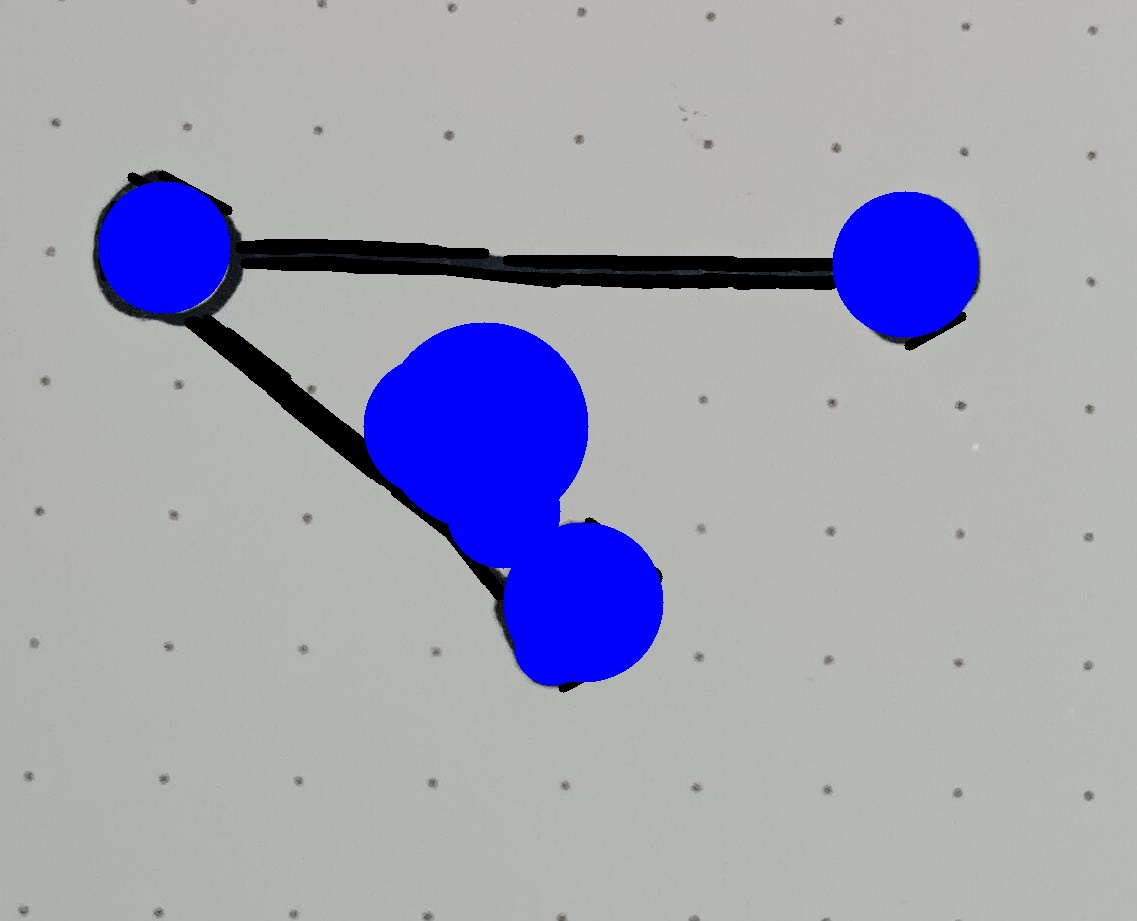
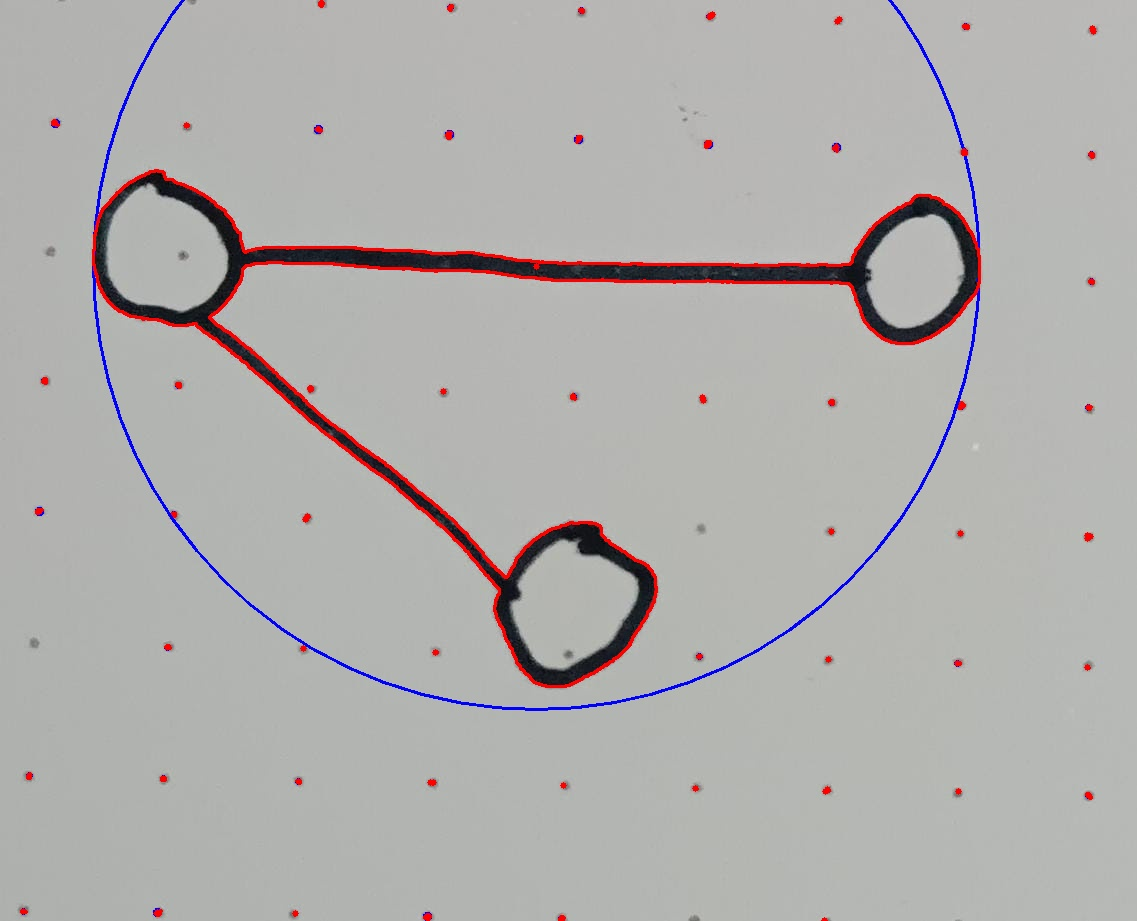
New method for the preprocessing

diff --git a/src/interpretation.py b/src/interpretation.py
@@ -1,52 +1,58 @@
 import cv2
+import os
 import numpy as np
 import networkx as nx
-import matplotlib.pyplot as plt
 
-# Función para interpretar los resultados del preprocesamiento y extraer información útil del grafo
-def interpretar_grafo(imagen_preprocesada):
-    # Convertir la imagen preprocesada a escala de grises
-    imagen_gris = cv2.cvtColor(imagen_preprocesada, cv2.COLOR_BGR2GRAY)
+def interpretar_grafo(imagen):
+    # Convertir la imagen a escala de grises
+    gray = cv2.cvtColor(imagen, cv2.COLOR_BGR2GRAY)
 
-    # Detección de nodos (círculos azules)
-    nodos = cv2.HoughCircles(imagen_gris, cv2.HOUGH_GRADIENT, dp=1, minDist=50, param1=50, param2=30, minRadius=5, maxRadius=30)
+    # Detección de círculos y líneas
+    circles = cv2.HoughCircles(gray, cv2.HOUGH_GRADIENT, dp=1, minDist=50, param1=200, param2=30, minRadius=15, maxRadius=45)
+    edges = cv2.Canny(gray, 50, 150, apertureSize=3)
 
-    # Detección de aristas (líneas rojas)
-    bordes_rojos = cv2.inRange(imagen_preprocesada, np.array([0, 0, 150]), np.array([100, 100, 255]))
-    contornos, _ = cv2.findContours(bordes_rojos, cv2.RETR_EXTERNAL, cv2.CHAIN_APPROX_SIMPLE)
+    # Detección de líneas utilizando la transformada de Hough probabilística
+    lines = cv2.HoughLines(edges, rho=1, theta=np.pi/180, threshold=100)
 
     # Crear un grafo vacío
-    grafo = nx.Graph()
+    G = nx.Graph()
 
-    # Agregar nodos al grafo y asignar etiquetas y posiciones
-    if nodos is not None:
-        nodos = np.round(nodos[0, :]).astype("int")
-        for i, (x, y, _) in enumerate(nodos):
-            etiqueta_nodo = f"Nodo {i+1}"
-            grafo.add_node(etiqueta_nodo, pos=(x, y))
+    # Agregar nodos al grafo
+    if circles is not None:
+        circles = np.uint16(np.around(circles))
+        for i in circles[0, :]:
+            G.add_node((i[0], i[1]))
 
     # Agregar aristas al grafo
-    for contorno in contornos:
-        if len(contorno) > 1:
-            inicio = tuple(contorno[0][0])
-            fin = tuple(contorno[-1][0])
-            grafo.add_edge(inicio, fin)
+    if lines is not None:
+        for line in lines:
+            rho, theta = line[0]
+            a = np.cos(theta)
+            b = np.sin(theta)
+            x0 = a * rho
+            y0 = b * rho
+            x1 = int(x0 + 1000 * (-b))
+            y1 = int(y0 + 1000 * (a))
+            x2 = int(x0 - 1000 * (-b))
+            y2 = int(y0 - 1000 * (a))
+            node1 = (x1, y1)
+            node2 = (x2, y2)
+            if node1 in G.nodes and node2 in G.nodes:
+                G.add_edge(node1, node2)
 
-    return grafo
-
+    return G
 
 # Ejemplo de uso
 if __name__ == "__main__":
-    imagen_preprocesada = cv2.imread("/home/joki/Documents/code/GraphsTheory/preProcessedImages/preprocesada_ej2.jpeg")  # Reemplaza esto con la imagen preprocesada
-    grafo = interpretar_grafo(imagen_preprocesada)
-
-    # Imprimir información del grafo
-    print("Número de nodos:", grafo.number_of_nodes())
-    print("Número de aristas:", grafo.number_of_edges())
-    print("Nodos:", grafo.nodes())
-    print("Aristas:", grafo.edges())
+    imagen_path = "./preProcessedImages/preprocesada_g1.png"  # Reemplaza esto con la ruta de tu imagen procesada
+    imagen_procesada = cv2.imread(imagen_path)
+    grafo = interpretar_grafo(imagen_procesada)
 
     # Visualizar el grafo
-    posiciones_nodos = nx.get_node_attributes(grafo, 'pos')
-    nx.draw(grafo, posiciones_nodos, with_labels=True, node_color='skyblue', node_size=500)
+    print("Nodos del grafo:", grafo.nodes)
+    print("Aristas del grafo:", grafo.edges)
+
+    # También puedes visualizar el grafo utilizando NetworkX
+    import matplotlib.pyplot as plt
+    nx.draw(grafo, with_labels=True)
     plt.show()

diff --git a/src/preprocesing.py b/src/preprocesing.py
@@ -5,39 +5,27 @@ def preprocesar_imagen(image_path):
     # Cargar la imagen
     imagen = cv2.imread(image_path)
 
-    # Convertir la imagen a escala de grises
-    imagen_gris = cv2.cvtColor(imagen, cv2.COLOR_BGR2GRAY)
+    # Convertir a escala de grises
+    gray = cv2.cvtColor(imagen, cv2.COLOR_BGR2GRAY)
 
-    # Aplicar umbralización adaptativa para segmentar la imagen
-    _, imagen_umbralizada = cv2.threshold(imagen_gris, 100, 255, cv2.THRESH_BINARY)
+    # Detección de círculos
+    circles = cv2.HoughCircles(gray, cv2.HOUGH_GRADIENT, dp=1, minDist=50, param1=200, param2=30, minRadius=0, maxRadius=0)
 
-    # Aplicar detección de bordes utilizando el algoritmo Canny
-    imagen_bordes = cv2.Canny(imagen_umbralizada, 50, 150)
+    # Dibujar círculos detectados
+    if circles is not None:
+        circles = circles.astype(int)
+        for i in circles[0, :]:
+            cv2.circle(imagen, (i[0], i[1]), i[2], (0, 255, 0), 2)
 
-    # Dilatación de la imagen de bordes
-    kernel = cv2.getStructuringElement(cv2.MORPH_RECT, (5, 5))
-    imagen_bordes_dilatada = cv2.dilate(imagen_bordes, kernel, iterations=1)
+    # Detección de líneas
+    edges = cv2.Canny(gray, 50, 150, apertureSize=3)
+    lines = cv2.HoughLinesP(edges, rho=1, theta=1 * (3.14 / 180), threshold=100, minLineLength=100, maxLineGap=10)
 
-    # Detección de líneas utilizando la transformada de Hough
-    lineas = cv2.HoughLinesP(imagen_bordes_dilatada, 1, 3.14/180, threshold=50, minLineLength=50, maxLineGap=5)  # Adjusted parameters
-
-    if lineas is not None:
-        # Dibujar las líneas encontradas (aristas)
-        for linea in lineas:
-            x1, y1, x2, y2 = linea[0]
-            cv2.line(imagen, (x1, y1), (x2, y2), (0, 0, 0), 10)  # Aumentar el grosor de la lí
-
-    # Detección de nodos (círculos) utilizando la transformada de Hough circular
-    circulos = cv2.HoughCircles(imagen_gris, cv2.HOUGH_GRADIENT, dp=1, minDist=50, param1=100, param2=30, minRadius=2, maxRadius=400)
-
-    if circulos is not None:
-        # Dibujar los círculos encontrados (nodos)
-        for circulo in circulos[0]:
-            centro = (int(circulo[0]), int(circulo[1]))
-            radio = int(circulo[2])
-
-            # Dibujar el nodo con relleno azul
-            cv2.circle(imagen, centro, radio, (255, 0, 0), -1)
+    # Dibujar líneas detectadas
+    if lines is not None:
+        for line in lines:
+            x1, y1, x2, y2 = line[0]
+            cv2.line(imagen, (x1, y1), (x2, y2), (0, 0, 255), 2)
 
     # Guardar la imagen preprocesada
     directorio_salida = "./preProcessedImages"
@@ -49,7 +37,7 @@ def preprocesar_imagen(image_path):
 
 # Ejemplo de uso
 if __name__ == "__main__":
-    imagen_path = "./processedImages/ej2.jpeg"  # Reemplaza esto con la ruta de tu imagen de grafo
+    imagen_path = "./processedImages/g1.png"  # Reemplaza esto con la ruta de tu imagen de grafo
     imagen_preprocesada = preprocesar_imagen(imagen_path)
 
     # Redimensionar la ventana de visualización según el tamaño de la imagen
@@ -59,3 +47,4 @@ if __name__ == "__main__":
     cv2.imshow("Imagen preprocesada", imagen_preprocesada)
     cv2.waitKey(0)
     cv2.destroyAllWindows()
+ 
